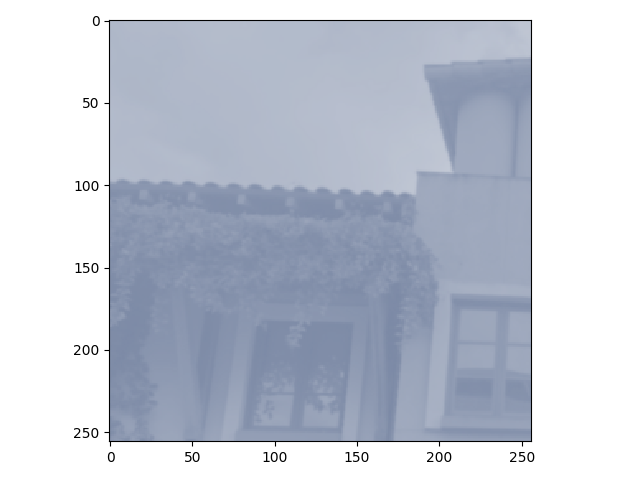
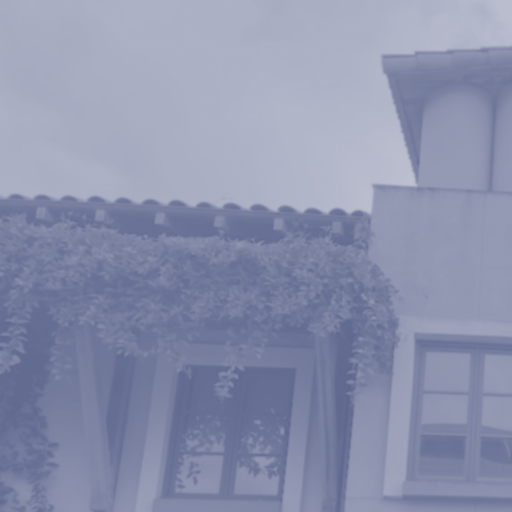
true sized images, laplacians added

diff --git a/hw1/qTwo.py b/hw1/qTwo.py
@@ -5,13 +5,18 @@ import matplotlib.pyplot as plt
 import os
 
 def downSampleByHalf(image):
-    imageHalf = np.delete(image, list(range(1,image.shape[0],2)),axis = 1)
-    imageHalfHalf = np.delete(imageHalf, list(range(1, image.shape[1],2)),axis = 0)
+    imageHalf = np.delete(image, list(range(1,image.shape[0],2)),axis = 1) #downsize one axis
+    imageHalfHalf = np.delete(imageHalf, list(range(1, image.shape[1],2)),axis = 0) #downsize the other
     return imageHalfHalf
 
 def gaussianAndList(list):
-    gaussianCurrentLevel = downSampleByHalf(ski.filters.gaussian(list[-1]))
-    list.append(gaussianCurrentLevel)
+    gaussianCurrentLevel = downSampleByHalf(ski.filters.gaussian(list[-1])) #downsample a gaussian convoluted image
+    list.append(gaussianCurrentLevel) #add it to the list
+
+def laplacianAndList(laplacianList, gaussianList, index):
+    laplacianCurrentLevel = np.subtract(gaussianList[index], ski.filters.gaussian(gaussianList[index]))
+    #subtract one level of gaussian pyramid with the gaussian convoluted version of itself
+    laplacianList.append(laplacianCurrentLevel)
 
 pathToBase = os.path.join(os.getcwd(),"upperleftcorner.png") #path to greyscale kavli upperleft corner
 
@@ -19,15 +24,45 @@ baseLevel = ski.io.imread(pathToBase) #read image into baseLevel variable
 
 gaussianList = [] #to store gaussian pyramid images
 
+laplacianList = [] #to store laplacian pyramid images
+
 gaussianLevel0 = ski.filters.gaussian(baseLevel) #512x512 gaussianed image, sigma = 1
 
-gaussianList.append(gaussianLevel0) #add to list
+laplacianLevel0 = np.subtract(baseLevel, gaussianLevel0)
 
-for i in range(0, 4):#generate downsampled and gaussianed from 512 -> 32 halfed each time
+laplacianList.append(laplacianLevel0) 
+
+gaussianList.append(gaussianLevel0) 
+
+for i in range(0,4):#generate downsampled and gaussianed from 512 -> 32 halfed each time
     gaussianAndList(gaussianList)
 
+for i in range(0,5):
+    laplacianAndList(laplacianList,gaussianList, i)
+
+dpi = 100
 
 for i in gaussianList: #display using matplotlib so i can download them
-    ski.io.imshow(i)
-    print(i.shape)
+    #configure matplotlib to show only the image in its true size and no plot borders 
+    height, width = i.shape[:2]
+    figsize = width / dpi, height / dpi
+    plt.figure(figsize=figsize, dpi=dpi)
+    plt.imshow(i, cmap = 'gray', interpolation = 'nearest')
+    plt.axis("off")
+    plt.tight_layout(pad = 0)
+    #label and show the image
+    print(i.shape, "gaussian")
+    plt.show()
+
+
+for i in laplacianList:
+    #configure matplotlib to show only the image in its true size and no plot borders 
+    height, width = i.shape[:2]
+    figsize = width / dpi, height / dpi
+    plt.figure(figsize=figsize, dpi=dpi)
+    plt.imshow(i, cmap = 'gray', interpolation = 'nearest')
+    plt.axis("off")
+    plt.tight_layout(pad = 0)
+    #label and show the image
+    print(i.shape, "laplacian")
     plt.show()
